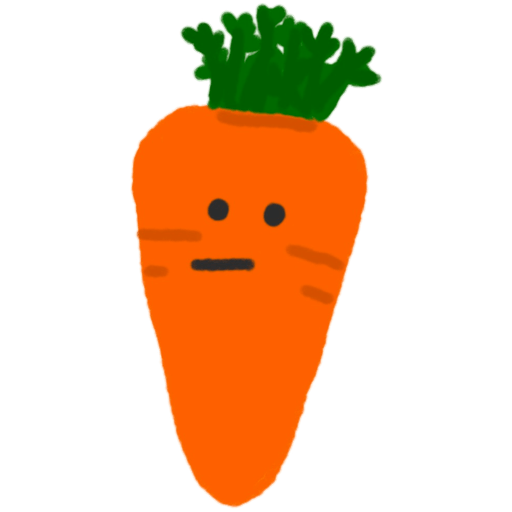
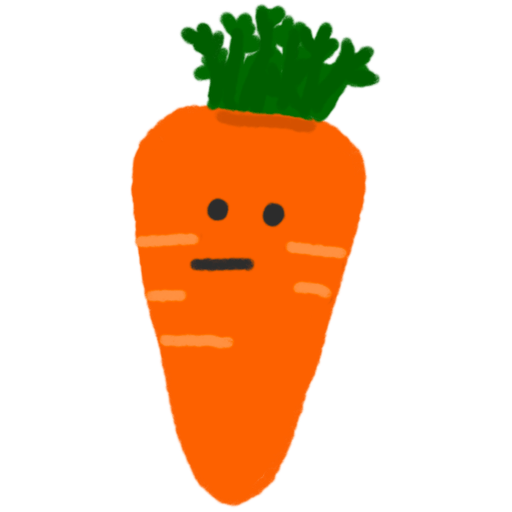
feat(diary): 감정 캐릭터 6종 새 그림으로 교체
happy, energetic, sad, depressed, embarrassed, tired 를 다시 그린 그림으로 바꿨다.
angry, shy, soso 는 그대로다. 과일과 감정의 대응은 바뀌지 않았다.

자산
- 새 소스는 이미 투명 배경 PNG 라 흰색 제거 단계를 건너뛴다. 남은 JPG 세 장은
  여전히 흰 배경이므로 변환기가 소스 종류를 보고 갈라서 처리한다
- 공통으로 잉크 경계로 잘라 긴 변을 캔버스에 맞춘다. 원본마다 여백이 제각각이라
  그대로 두면 정사각 상자 안에서 크기가 들쭉날쭉해진다
- 소스 폴더를 정리했다. *_new.png 가 원본 자리를 가져가고 대체된 JPG 는 지웠다

배율
- 새 딸기가 전보다 넓어졌다(비율 0.62 -> 0.75). 보정이 덜 필요해져 1.12 -> 1.07
- 가지도 0.421 -> 0.423 으로 미세하게 달라져 1.24 -> 1.23
- 이제 가장 좁은 것은 딸기가 아니라 당근(0.50)이다. 주석을 그에 맞게 고쳤다

대비 수치 정정
- **앞서 적은 복숭아 13.4 는 틀렸다.** 토큰에 적힌 대표색 한 점으로 쟀는데,
  캐릭터는 여러 색을 가지므로 그 방식은 실제 분리를 과소평가한다
- 그림의 불투명 픽셀 전부로 다시 쟀다. ΔE 중앙값(OKLab x100):
  블루베리 50.9 / 가지 49.7 / 체리·딸기·토마토 35.7 / 당근 30.2 /
  아보카도 24.1 / 키위 20.6 / 복숭아 19.7
- 배경과 ΔE 10 이내인 픽셀은 어느 캐릭터도 1% 미만이다. #b8d7e7 위에서 9종 모두 충분하다

감정 색 토큰(--e-*)은 그대로 두었다. 새 그림에서 뽑은 원색은 #f12d39 처럼 훨씬
진해서 muted-sky 와 충돌한다. 이 색은 캐릭터가 없는 장식 자리(KPI 점, 뱃지 메달)
에만 쓰이므로 지금의 낮은 채도 값이 맞다.

검증: tsc --noEmit 0건, 이모지 hook 통과, 프로토타입 스크립트·CSS 파싱

diff --git a/docs/screen/prototype.html b/docs/screen/prototype.html
@@ -47,9 +47,11 @@
      **색이 뜻을 나르지 않는다** - 빨강이 셋이라(체리/딸기/토마토) 색만으로는 구분되지 않는다.
      뜻은 늘 그림과 라벨이 전한다. 이 색은 배경 wash 와 테두리 전용 */
   /* 캐릭터가 얹히는 면. 과일 색을 깔면 같은 계열이라 캐릭터가 묻힌다.
-     측정(ΔE, OKLab x100): 블루베리 47.3 / 가지 43.8 / 체리 35.4 / 토마토 33.5 / 딸기 30.9 /
-     당근 23.4 / 아보카도 21.9 / 키위 18.9 / **복숭아 13.4** - 연분홍이라 이 하늘색과 밝기가 비슷해 제일 약하다.
-     바닐라 배경과는 ΔE 12.3 이라 면 자체로 경계가 보인다. 위에 글자가 오면 #253544 로 8.32:1 */
+     분리 정도는 **그림의 실제 픽셀**로 잰다 - 대표색 한 점으로 재면 여러 색을 가진 캐릭터를 놓친다.
+     불투명 픽셀의 ΔE 중앙값(OKLab x100): 블루베리 50.9 / 가지 49.7 / 체리·딸기·토마토 35.7 /
+     당근 30.2 / 아보카도 24.1 / 키위 20.6 / **복숭아 19.7** - 연분홍이라 제일 약하지만 충분하다.
+     배경과 ΔE 10 이내인 픽셀은 어느 캐릭터도 1% 미만이다.
+     바닐라 페이지 배경과는 ΔE 12.3 이라 면 자체로 경계가 보인다. 위에 글자가 오면 #253544 로 8.32:1 */
   --face-bg: #b8d7e7;
   --e-HAPPY:#e3564f; --e-ENERGETIC:#d33b57; --e-SOSO:#dd4a3c;
   --e-SHY:#eda7ae; --e-EMBARRASSED:#e08a3c; --e-TIRED:#8a9e62;
@@ -682,11 +684,11 @@ const MAX_LENGTH = 500, COUNTER_FROM = 450, REGEN_LIMIT = 3;
 const ec = (e) => `var(--e-${e})`;
 /**
  * 캐릭터마다 렌더 배율이 다르다. 자산은 이미 긴 변이 캔버스를 채우고 있어 더 커질 수 없는데,
- * 세로로 긴 캐릭터(가지 비율 0.42, 딸기 0.62)는 정사각 상자 안에서 면적을 적게 먹어 작아 보인다.
+ * 세로로 긴 캐릭터(가지 비율 0.42, 당근 0.50)는 정사각 상자 안에서 면적을 적게 먹어 작아 보인다.
  * 면적이 같아지도록 완전 보정하면 가지가 1.53배가 되어 상자를 크게 넘친다 - **절반만 보정한다.**
  */
-const SCALE = { HAPPY:1.12, ENERGETIC:1.05, SOSO:1.00, SHY:1.01, EMBARRASSED:1.18,
-                TIRED:1.07, SAD:1.24, DEPRESSED:1.02, ANGRY:1.05 };
+const SCALE = { HAPPY:1.07, ENERGETIC:1.05, SOSO:1.00, SHY:1.01, EMBARRASSED:1.18,
+                TIRED:1.07, SAD:1.23, DEPRESSED:1.02, ANGRY:1.05 };
 /** 감정 캐릭터 그림. 글리프(이모지)를 쓰지 않는다 - 앱도 같은 PNG 를 쓴다 */
 const face = (e, px = 28) => {
   const n = Math.round(px * (SCALE[e] ?? 1));

diff --git a/app/src/shared/theme/tokens.ts b/app/src/shared/theme/tokens.ts
@@ -119,9 +119,11 @@ const light: Colors = {
   rule: 'rgba(63,63,63,0.22)',
   emotionInk: primitive.slate900,
   /**
-   * 측정(ΔE, OKLab x100): 블루베리 47.3 / 가지 43.8 / 체리 35.4 / 토마토 33.5 / 딸기 30.9 /
-   * 당근 23.4 / 아보카도 21.9 / 키위 18.9 / **복숭아 13.4** - 연분홍이라 이 하늘색과 밝기가 비슷해 제일 약하다.
-   * 바닐라 배경과는 ΔE 12.3 이라 면 자체로 경계가 보인다. 위에 글자가 오면 #253544 로 8.32:1.
+   * 분리 정도는 **그림의 실제 픽셀**로 잰다 - 대표색 한 점으로 재면 여러 색을 가진 캐릭터를 놓친다.
+   * 불투명 픽셀의 ΔE 중앙값(OKLab x100): 블루베리 50.9 / 가지 49.7 / 체리·딸기·토마토 35.7 /
+   * 당근 30.2 / 아보카도 24.1 / 키위 20.6 / **복숭아 19.7** - 연분홍이라 제일 약하지만 충분하다.
+   * 배경과 ΔE 10 이내인 픽셀은 어느 캐릭터도 1% 미만이다.
+   * 바닐라 페이지 배경과는 ΔE 12.3, 위에 글자가 오면 #253544 로 8.32:1.
    * 그림이 테마를 따라 바뀌지 않으므로 이 면도 다크에서 같은 값이다.
    */
   faceBg: '#b8d7e7',

diff --git a/app/src/shared/emotion.ts b/app/src/shared/emotion.ts
@@ -81,19 +81,19 @@ export const EMOTION_IMAGE: Record<Emotion, number> = {
  * 캐릭터마다 렌더 배율이 다르다.
  *
  * 자산은 잉크 경계로 잘라 **긴 변이 캔버스를 채우도록** 다시 뽑았으므로 그림 자체는 더 커질 수 없다.
- * 그런데 세로로 긴 캐릭터(가지 비율 0.42, 딸기 0.62)는 정사각 상자 안에서 면적을 적게 먹어 작아 보인다.
+ * 그런데 세로로 긴 캐릭터(가지 비율 0.42, 당근 0.50)는 정사각 상자 안에서 면적을 적게 먹어 작아 보인다.
  * 면적이 같아지도록 완전 보정하면 가지가 1.53배가 되어 상자를 크게 넘친다 - **절반만 보정한다.**
  *
  * `docs/screen/prototype.html` 의 SCALE 과 같은 값이다. **한쪽만 고치지 않는다.**
  */
 export const EMOTION_SCALE: Record<Emotion, number> = {
-  HAPPY: 1.12,
+  HAPPY: 1.07,
   ENERGETIC: 1.05,
   SOSO: 1.0,
   SHY: 1.01,
   EMBARRASSED: 1.18,
   TIRED: 1.07,
-  SAD: 1.24,
+  SAD: 1.23,
   DEPRESSED: 1.02,
   ANGRY: 1.05,
 };
